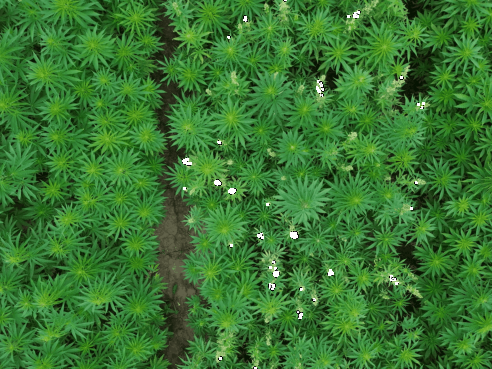
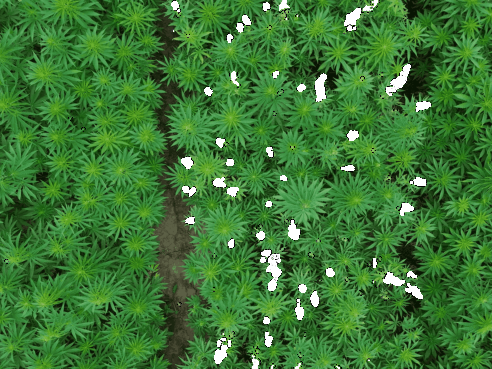
counted blobs

diff --git a/test.py b/test.py
@@ -8,9 +8,10 @@ import timeit
 
 start = timeit.default_timer()
 
-DOMINANT_COLORS = 50
+DOMINANT_COLORS = 35
 FILEPATH = "hemp1.jpeg"
-NUM_LUMA = 4
+NUM_LUMA = 1
+threshold_area = 20
 
 def generateOriginalImage():
 
@@ -63,19 +64,23 @@ def initNewImg(im):
     return new_img, original_shape
 
 def getLightestColor(colors):
-    luma = 0
-    index = 0
+    luma = np.zeros(NUM_LUMA)
+    #luma = 0
+    indexes = np.zeros(NUM_LUMA)
     indexTemp = 0
     for color in colors:
         red = color[0]
         green = color[1]
         blue = color[2]
         lumaTemp = (0.2126 * red) + (0.7152 * green) + (0.0722 * blue)
-        if lumaTemp > luma:
-            luma = lumaTemp
-            index = indexTemp
+        #if lumaTemp > luma:
+        if lumaTemp > min(luma):
+            luma[np.argmin(luma)] = lumaTemp
+            indexes[np.argmin(luma)] = indexTemp
+        #    luma = lumaTemp
+        #    index = indexTemp
         indexTemp += 1
-    return index
+    return indexes
 
 def generateSegmentedImage(new_img):
     segmentedFilepath = 'segmented.png'
@@ -92,11 +97,11 @@ def generateSegmentedImage(new_img):
     plt.close()
     return new_img, segmentedFilepath
 
-def generateBWImage(bw_img, km, colors, original_shape):
+def generateBWImage(bw_img, km, colors, original_shape, lightestIndexes):
     BW1Filepath = 'BW1.png'
     grayscaleColors = colors
     for i in range(len(grayscaleColors)):
-        if i == lightestIndex:
+        if i in lightestIndexes:
             grayscaleColors[i] = [255,255,255]
         else:
             grayscaleColors[i] = [0,0,0]
@@ -115,11 +120,15 @@ def generateBWImage(bw_img, km, colors, original_shape):
     plt.close()
     return bw_img, BW1Filepath
 
-def imageOpening(img, imageNum, times):
+def imageOpening(img, imageNum, iterations):
     openedFilepath = f'BW{imageNum}.png'
-    opened_img = morphology.opening(img)
+    img = img.copy()
+    opened_img = img
+    for i in range(iterations):
+        opened_img = morphology.opening(img)
+        img = opened_img
     plt.imshow(opened_img)
-    #plt.suptitle(f"{times}x Opening, K={DOMINANT_COLORS}")
+    #plt.suptitle(f"{iterations}x Opening, K={DOMINANT_COLORS}")
     plt.axis('off')
     #plt.savefig(openedFilepath, bbox_inches='tight')
     plt.savefig(openedFilepath, bbox_inches='tight', pad_inches = 0)
@@ -127,9 +136,13 @@ def imageOpening(img, imageNum, times):
     plt.close()
     return opened_img, openedFilepath
 
-def imageClosing(img, imageNum, times):
+def imageClosing(img, imageNum, iterations):
     closedFilepath = f'BW{imageNum}.png'
-    closedImg = morphology.closing(img)
+    img = img.copy()
+    closedImg = img
+    for i in range(iterations):
+        closedImg = morphology.closing(img)
+        img = closedImg
     plt.imshow(closedImg)
     #plt.suptitle(f"{times}x Closing, K={DOMINANT_COLORS}")
     plt.axis('off')
@@ -139,9 +152,13 @@ def imageClosing(img, imageNum, times):
     plt.close()
     return closedImg, closedFilepath
 
-def imageDilation(img, imageNum, times):
+def imageDilation(img, imageNum, iterations):
     dilatedFilepath = f'BW{imageNum}.png'
-    dilatedImg = morphology.dilation(img)
+    img = img.copy()
+    dilatedImg = img
+    for i in range(iterations):
+        dilatedImg = morphology.dilation(img)
+        img = dilatedImg
     plt.imshow(dilatedImg)
     #plt.suptitle(f"{times}x Closing, K={DOMINANT_COLORS}")
     plt.axis('off')
@@ -212,33 +229,43 @@ def findBlobs(img_filepath):
     #contours, hierarchy = cv2.findContours(edged,cv2.RETR_LIST, cv2.CHAIN_APPROX_NONE)
     contours, hierarchy = cv2.findContours(edged,cv2.RETR_EXTERNAL, cv2.CHAIN_APPROX_NONE)
     cv2.imwrite(cannyFilepath, edged) 
+
     print("Number of Contours found = " + str(len(contours))) 
     cv2.drawContours(img, contours, -1, (255, 255, 255), thickness=cv2.FILLED) 
     cv2.imwrite(contourFilepath, img) 
+    cleanedFilepath = minimizeBlobs(contours, img)
     cv2.destroyAllWindows()
-    return cannyFilepath, contourFilepath
+    return cannyFilepath, contourFilepath, cleanedFilepath
+
+def minimizeBlobs(contours, img):
+    cleanedFilepath = 'cleanedContours.png'
+    counter = 0
+    for cnt in contours:        
+        area = cv2.contourArea(cnt)         
+        if area < threshold_area:
+            cv2.drawContours(img, [cnt], 0, (0, 0, 0), -1)
+            counter += 1
+    print("Number of Contours removed = " + str(counter)) 
+    cv2.imwrite(cleanedFilepath, img)
+    cv2.destroyAllWindows()
+    return cleanedFilepath
 
 im = generateOriginalImage()
 km, centers = kMeans(im)
 colors = Colors(centers)
 new_img, original_shape = initNewImg(im)
-lightestIndex = getLightestColor(colors)
+lightestIndexes = getLightestColor(colors)
 bw_img = new_img
 new_img, segmentedFilepath = generateSegmentedImage(new_img)
-bw_img, BW1Filepath = generateBWImage(bw_img, km, colors, original_shape)
-opened_img1x, openedFilepath1x = imageOpening(bw_img, 2, 1)
-closed_img1x, closedFilepath1x = imageClosing(opened_img1x, 3, 1)
-closed_img2x, closedFilepath2x = imageClosing(closed_img1x, 4, 2)
-closed_img3x, closedFilepath3x = imageClosing(closed_img1x, 5, 3)
-dilated_img1x, dilatedFilepath1x = imageDilation(closed_img1x, 6, 1)
-dilated_img2x, dilatedFilepath2x = imageDilation(closed_img1x, 7, 2)
-dilated_img3x, dilatedFilepath3x = imageDilation(closed_img1x, 8, 3)
-dilated_img4x, dilatedFilepath4x = imageDilation(closed_img1x, 9, 4)
-#transparentFilepath = generateTransparentImage(closedFilepath2x)
-#transparentFilepath = generateTransparentImage(dilatedFilepath4x)
-#overlayFilepath = overlayImages(segmentedFilepath, transparentFilepath)
-cannyFilepath, contourFilepath = findBlobs(dilatedFilepath4x)
-transparentFilepath = generateTransparentImage(contourFilepath)
+bw_img, BW1Filepath = generateBWImage(bw_img, km, colors, original_shape, lightestIndexes)
+
+
+dilated_img, dilatedFilepath = imageDilation(bw_img, 2, 0)
+closed_img, closedFilepath = imageClosing(dilated_img, 3, 13)
+#opened_img, openedFilepath = imageOpening(closed_img, 4, 1)
+dilated_img, dilatedFilepath = imageDilation(closed_img, 4, 3)
+cannyFilepath, contourFilepath, cleanedFilepath = findBlobs(dilatedFilepath)
+transparentFilepath = generateTransparentImage(cleanedFilepath)
 overlayFilepath = overlayImages(segmentedFilepath, transparentFilepath)
 
 
